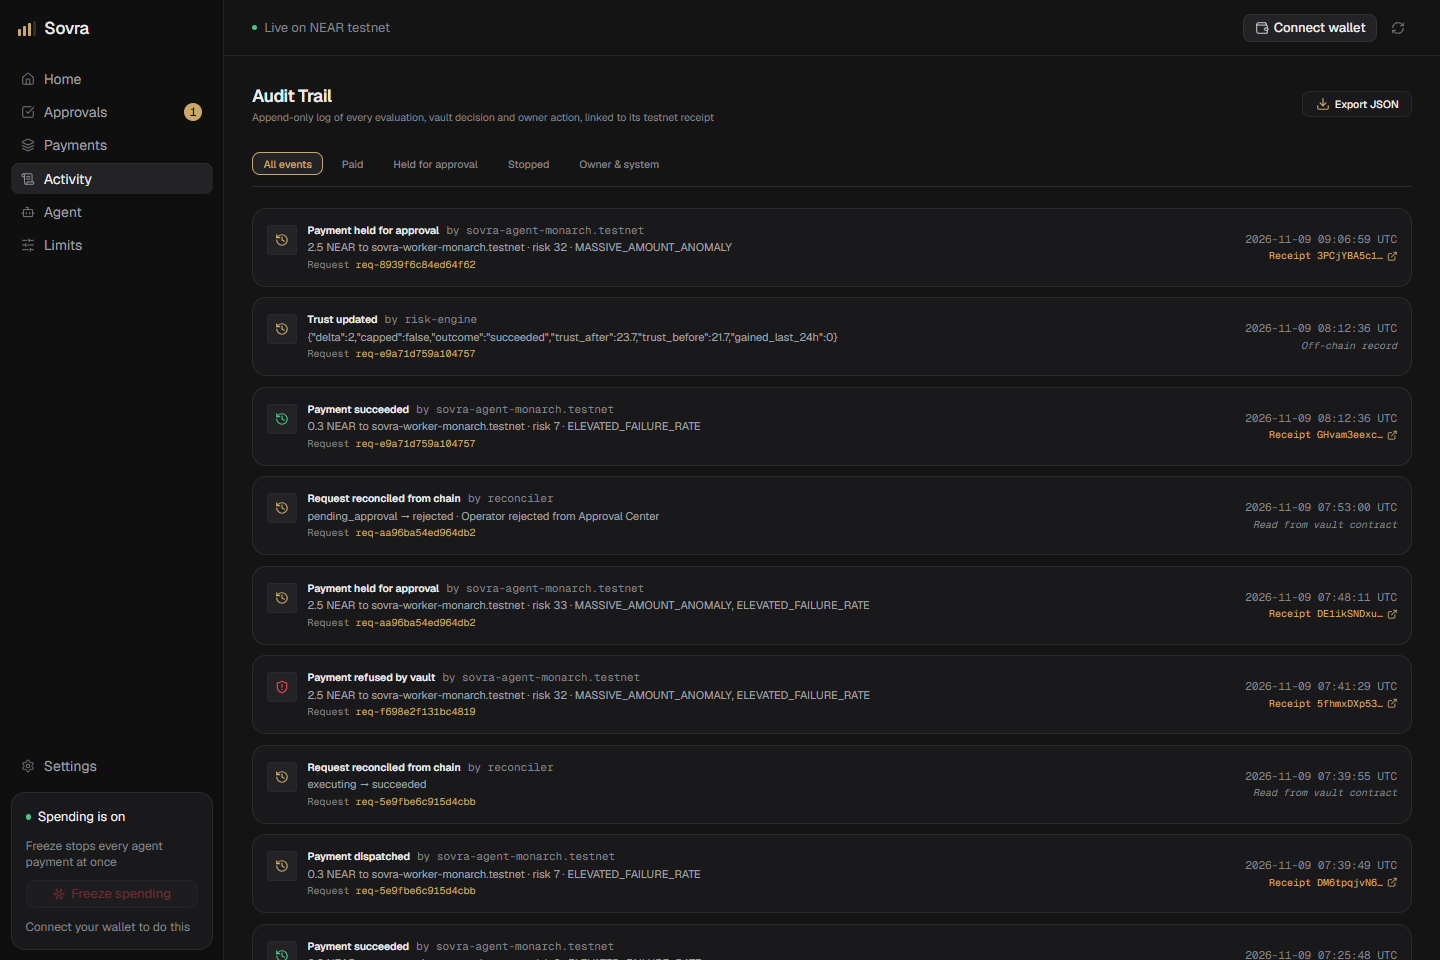
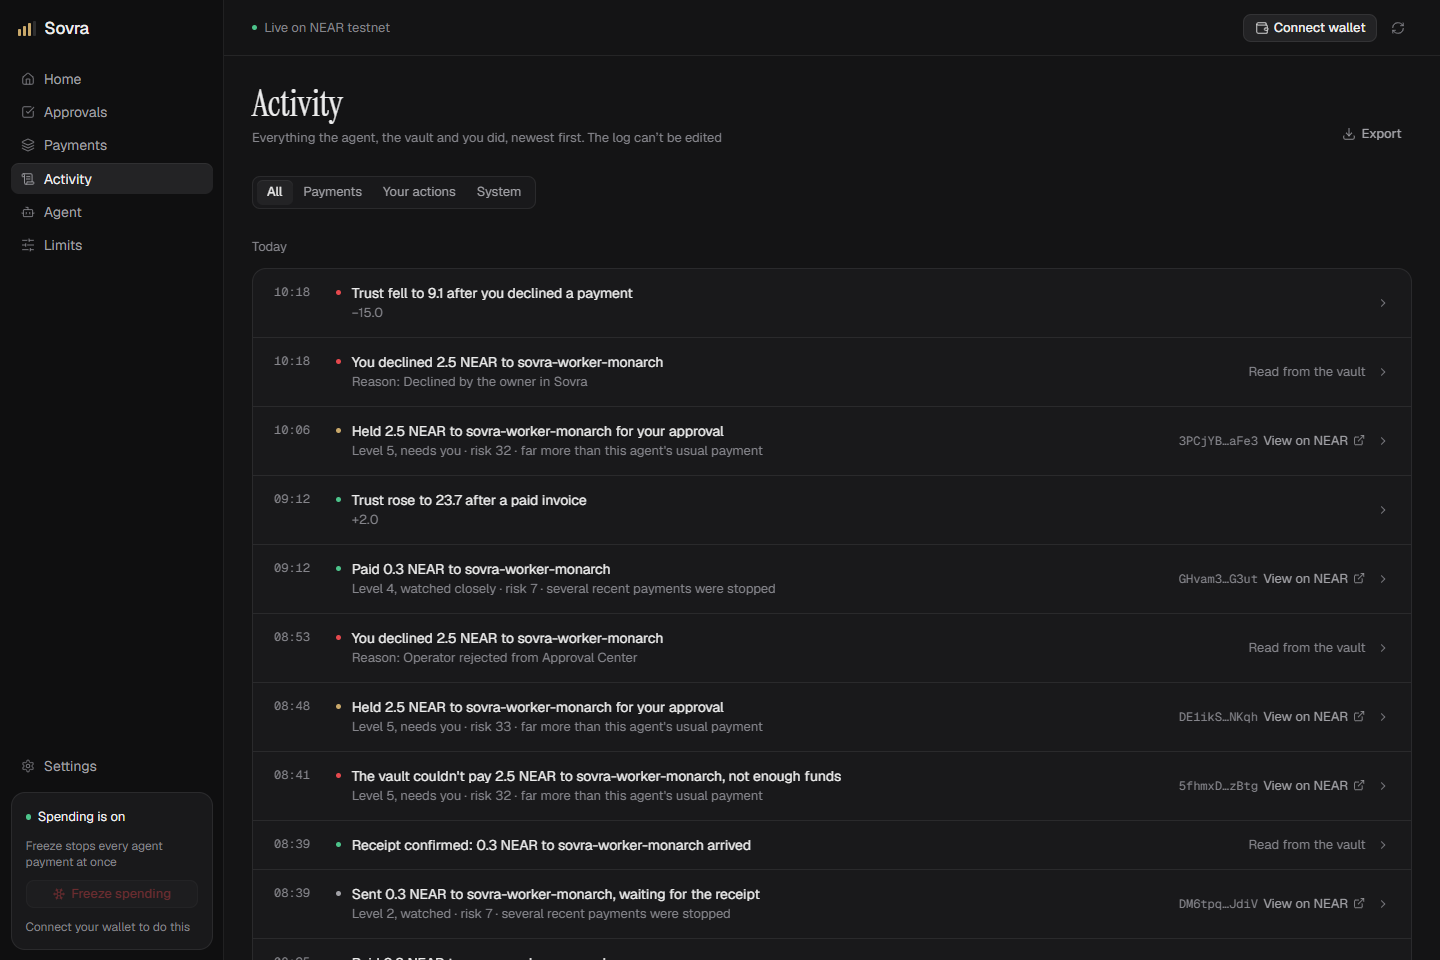
docs: Activity screenshots after rebuild

diff --git a/docs/screenshots/README.md b/docs/screenshots/README.md
@@ -13,7 +13,8 @@ The UI is being rebuilt screen by screen from [design.md](../../design.md). Scre
 | `04-evidence-drawer.png` | Payment drawer: an owner-approved 2.5 NEAR payment, why it waited, risk check, the agent's words, proof | Rebuilt |
 | `05-approvals.png` | Approvals: a 2.5 NEAR payment held at level 5 as a slip with the countdown ring, plus recent decisions | Rebuilt |
 | `06-limits.png` | Limits (policy v2) | Legacy |
-| `07-activity.png` | Activity log | Legacy |
+| `07-activity.png` | Activity: one sentence per event, grouped by day, with proof links | Rebuilt |
 | `08-mobile-home.png` | Home at 390 px | Rebuilt |
 | `09-mobile-payments.png` | Payments at 390 px | Rebuilt |
 | `10-mobile-approvals.png` | Approvals at 390 px | Rebuilt |
+| `11-mobile-activity.png` | Activity at 390 px | Rebuilt |
